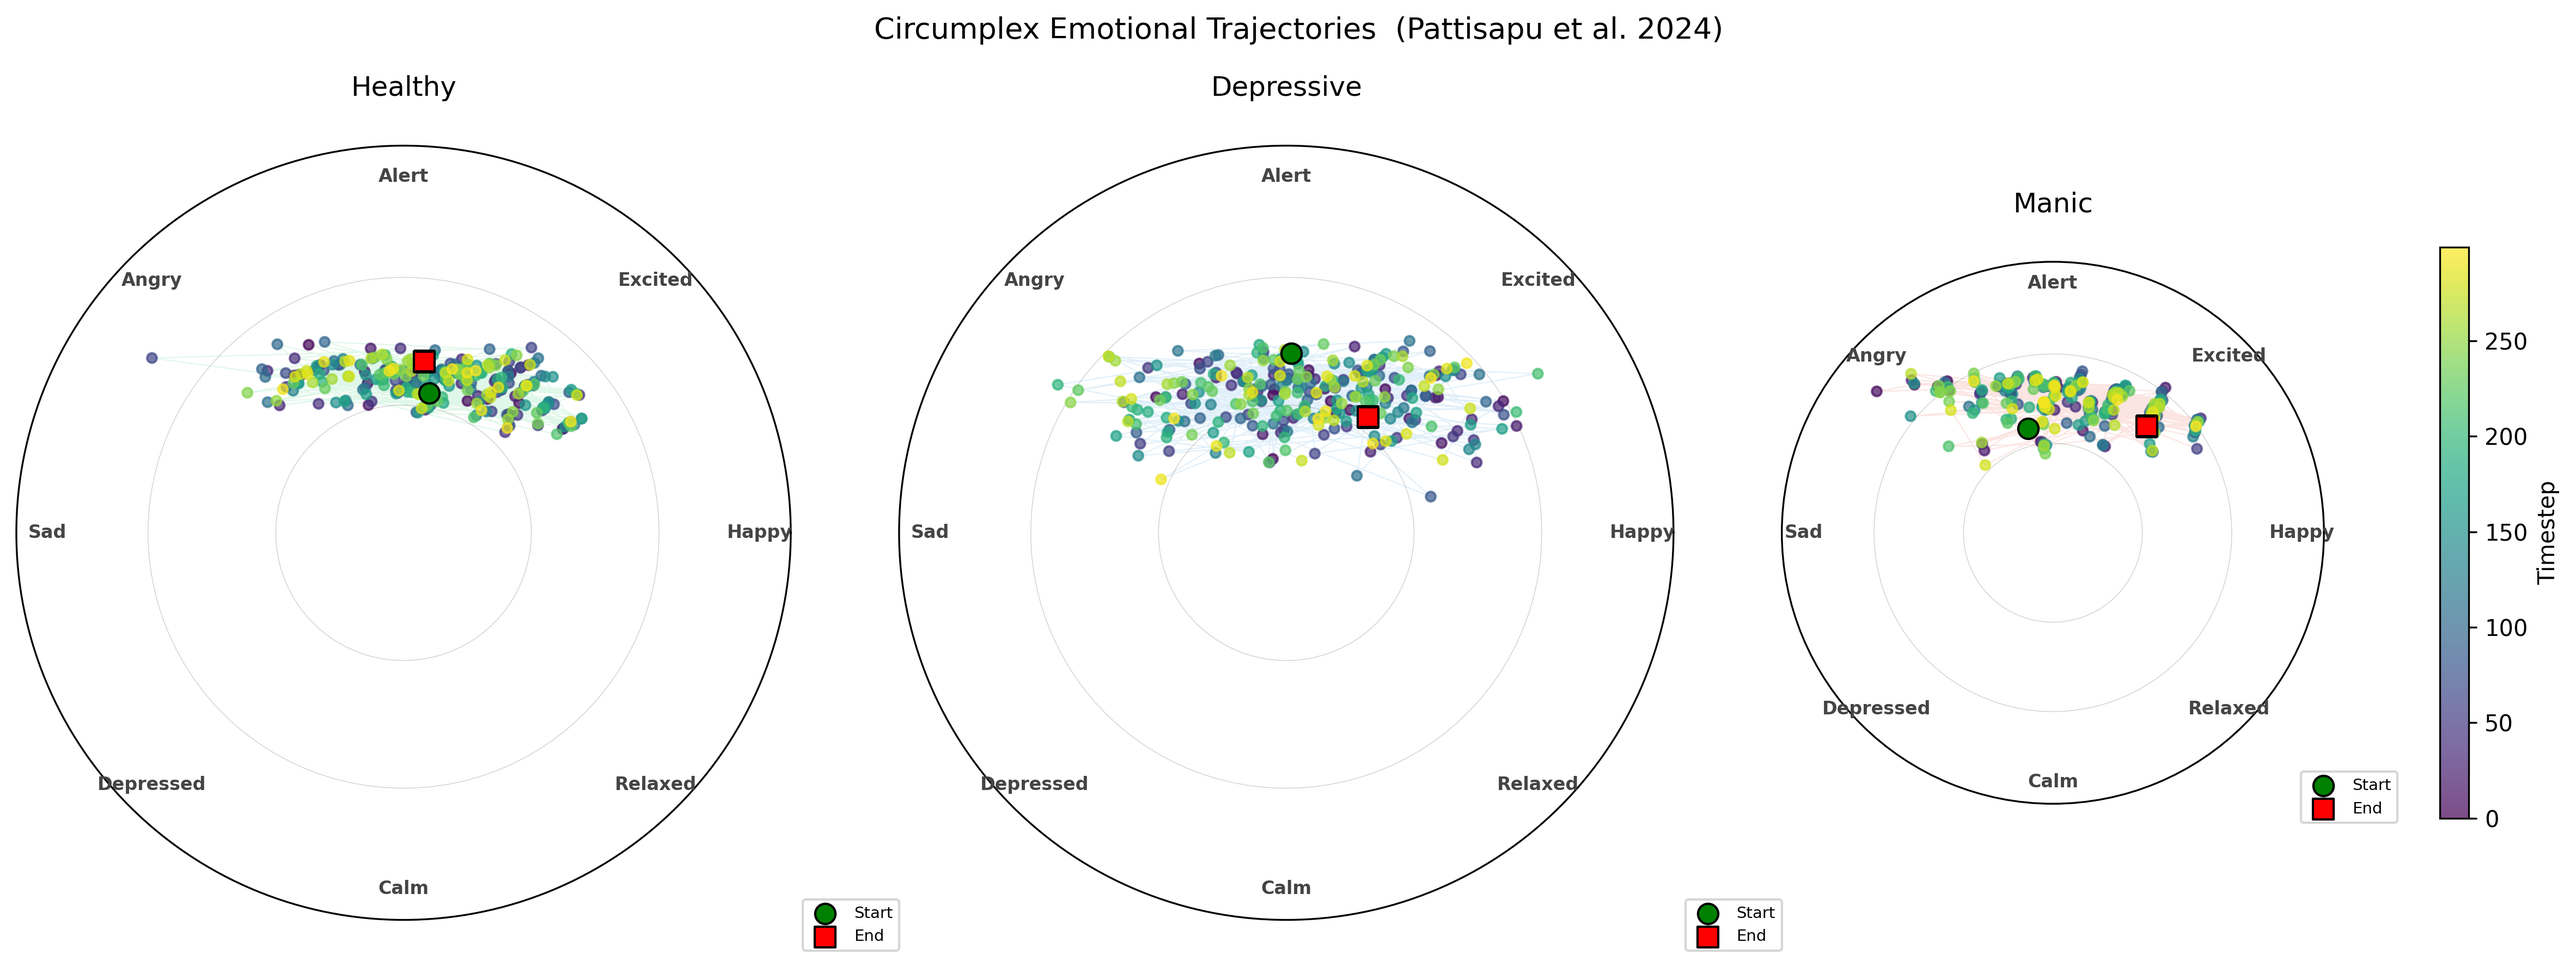
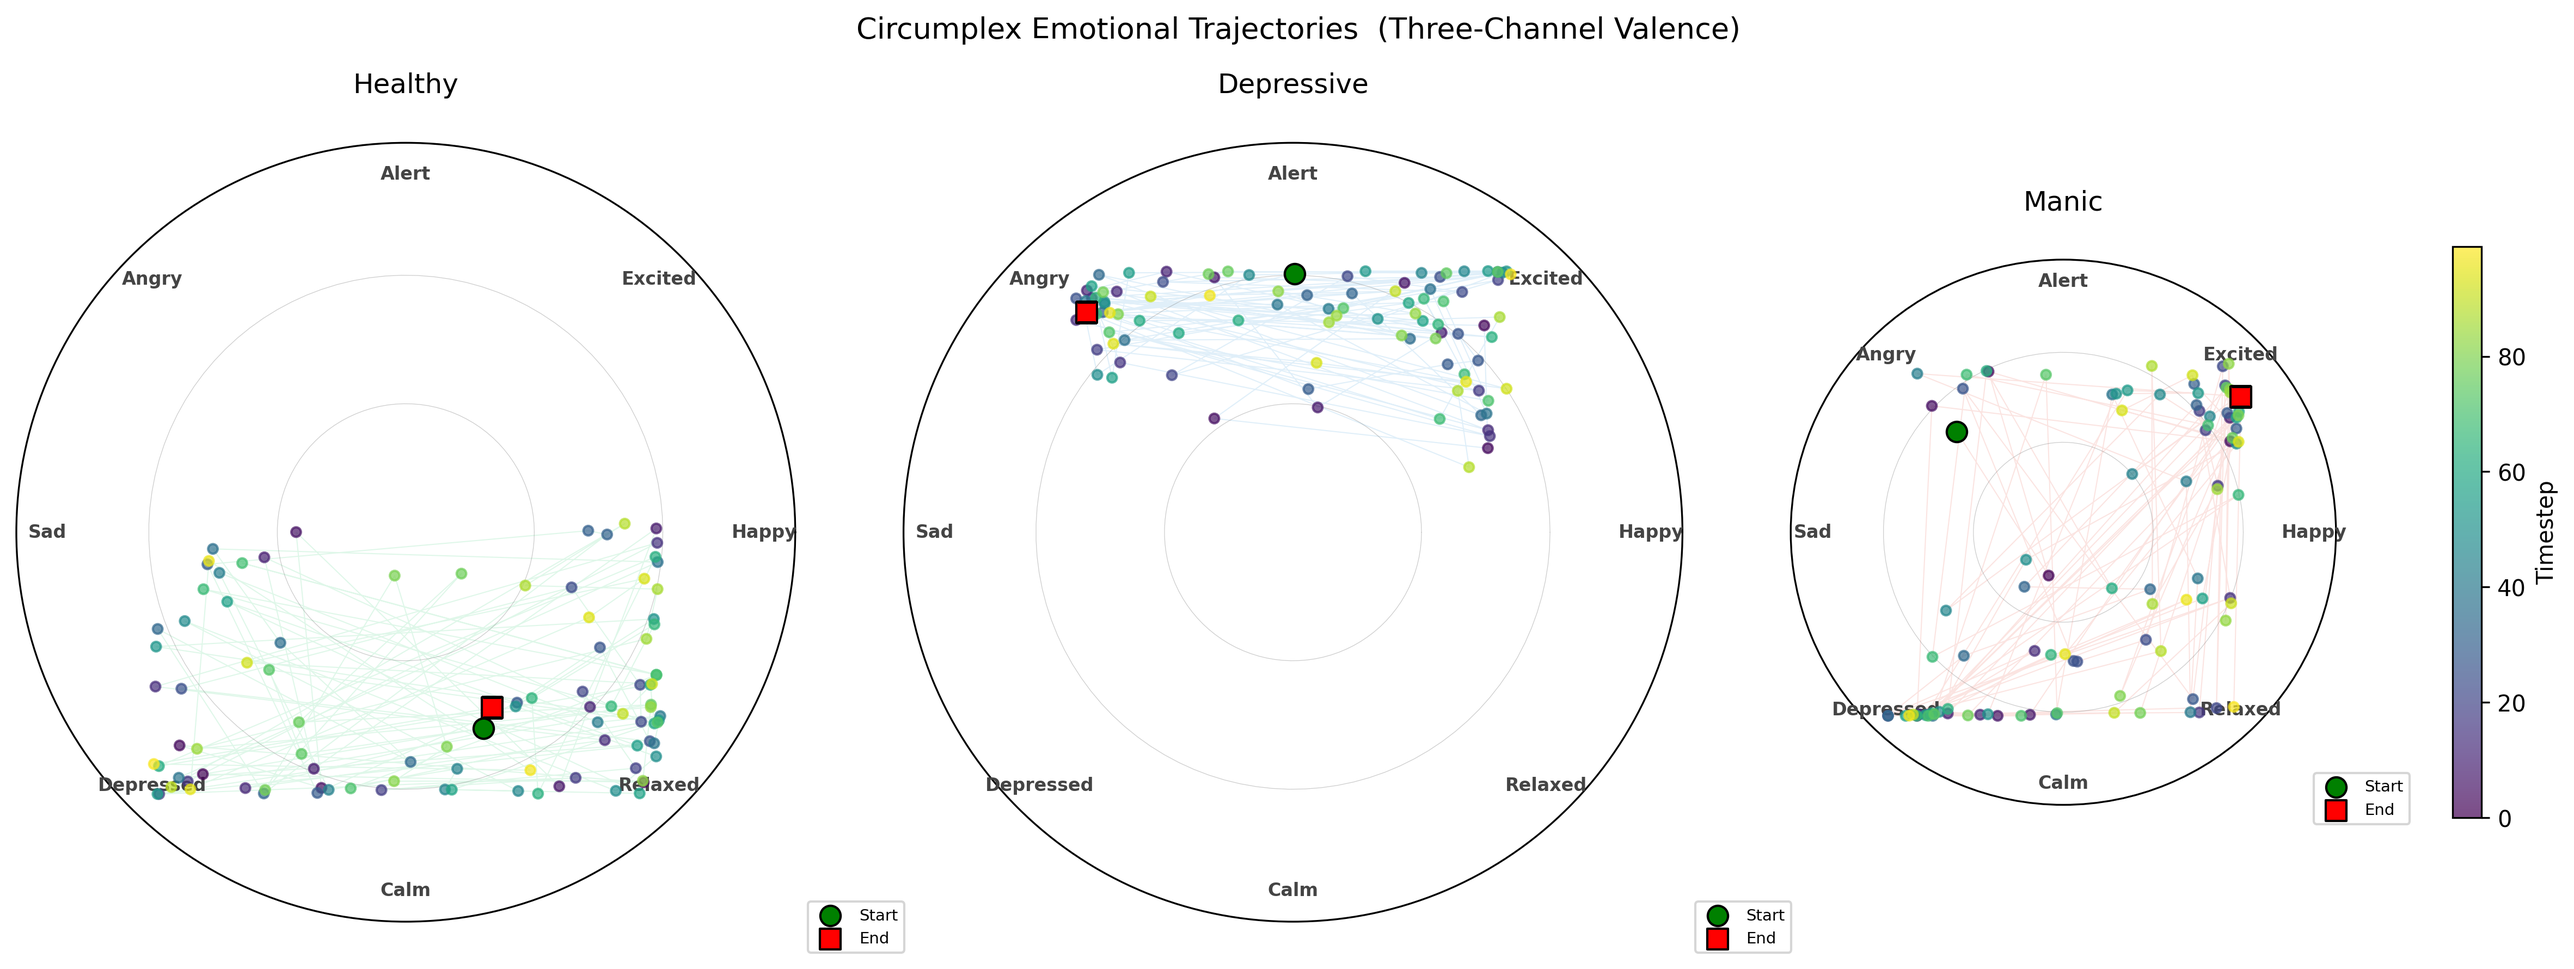
Three-channel valence architecture (Joffily + Pattisapu + Hesp) and policy-entropy arousal for circumplex

diff --git a/agent.py b/agent.py
@@ -5,9 +5,12 @@ Performs:
   1. Bayesian belief update  (predict → observe → posterior)
   2. EFE-based policy evaluation  (risk + ambiguity per modality)
   3. Softmax policy selection
-  4. Dual affect readout:
-     a) Pattisapu et al. (2024):  V = U − EU,  A = H[Q(s|o)]
-     b) Joffily & Coricelli (2013):  valence = −dF/dt
+  4. Three-channel affective readout:
+     a) v_model  = tanh(−ΔF/τ)     — backward (Joffily & Coricelli 2013)
+     b) v_reward = tanh((U−EU)/τ)   — present  (Pattisapu et al. 2024)
+     c) v_action = tanh(AC/τ)       — forward  (Hesp et al. 2021)
+     Composite: valence = tanh(v_model + v_reward + v_action)
+     Arousal: H[Q(s|o)] normalised to [−1, 1]
 """
 
 import numpy as np
@@ -15,12 +18,18 @@ from generative_model import ModelSpec, N_ACTIONS, EPS
 
 
 class Agent:
-    def __init__(self, model: ModelSpec, gamma: float = 16.0):
+    def __init__(self, model: ModelSpec, gamma: float = 16.0,
+                 tau_model: float = 0.5, tau_reward: float = 2.0,
+                 tau_action: float = 1.0):
         self.model = model
         self.gamma = gamma
+        self.tau_model = tau_model
+        self.tau_reward = tau_reward
+        self.tau_action = tau_action
         self.beliefs = model.D.copy()
         self.prev_action = None
         self._vfe_prev = None
+        self._pi_prev = None    # previous policy for affective charge
 
         # Pre-compute normalised preference distributions  σ(C_m)
         self._log_pref = []
@@ -33,6 +42,7 @@ class Agent:
         self.beliefs = self.model.D.copy()
         self.prev_action = None
         self._vfe_prev = None
+        self._pi_prev = None
 
     # ── Main loop ──────────────────────────────────────────
     def step(self, obs):
@@ -68,7 +78,7 @@ class Agent:
         q_post /= (q_post.sum() + EPS)
         self.beliefs = q_post
 
-        # ── VFE (for Joffily-Coricelli) ───────────────────
+        # ── VFE ──────────────────────────────────────────────
         accuracy = sum(
             np.dot(q_post, np.log(self.model.A[m][obs[m], :] + EPS))
             for m in range(len(obs))
@@ -79,30 +89,26 @@ class Agent:
 
         if self._vfe_prev is not None:
             dF = vfe - self._vfe_prev
-            valence_jc = float(np.tanh(-dF / 0.5))
         else:
             dF = 0.0
-            valence_jc = 0.0
         self._vfe_prev = vfe
 
-        # ── Pattisapu et al.:  V = U − EU,  A = H[q(s|o)] ─
-        # Utility of actual observation
-        U = sum(self._log_pref[m][obs[m]] for m in range(len(obs)))
+        # ── Three-channel valence ────────────────────────────
+        # Channel 1: v_model — backward (Joffily & Coricelli 2013)
+        v_model = float(np.tanh(-dF / self.tau_model))
 
-        # Expected utility under predicted observations
+        # Channel 2: v_reward — present (Pattisapu et al. 2024)
+        U = sum(self._log_pref[m][obs[m]] for m in range(len(obs)))
         EU = 0.0
         for m in range(len(self.model.A)):
-            q_o = self.model.A[m] @ q_pred          # predicted obs
+            q_o = self.model.A[m] @ q_pred
             q_o = np.maximum(q_o, EPS)
             q_o /= q_o.sum()
             EU += float(np.dot(q_o, self._log_pref[m]))
+        v_reward = float(np.tanh((U - EU) / self.tau_reward))
 
-        valence_p = float(U - EU)   # reward prediction error
-
-        # Arousal = posterior entropy
+        # Arousal = posterior state entropy (Pattisapu)
         arousal_p = float(-np.dot(q_post, np.log(q_post + EPS)))
-
-        # Normalised arousal  ∈ [0, 1]
         max_H = np.log(self.model.n_states)
         arousal_norm = arousal_p / max_H if max_H > 0 else 0.0
 
@@ -113,22 +119,48 @@ class Agent:
         log_pi -= log_pi.max()
         pi = np.exp(log_pi)
         pi /= (pi.sum() + EPS)
+
+        # Channel 3: v_action — forward (Hesp et al. 2021)
+        # Affective charge: policy improvement weighted by EFE
+        if self._pi_prev is not None:
+            AC = float(np.dot(self._pi_prev - pi, G))
+            v_action = float(np.tanh(AC / self.tau_action))
+        else:
+            AC = 0.0
+            v_action = 0.0
+
+        # Composite valence
+        valence = float(np.tanh(v_model + v_reward + v_action))
+
         action = int(np.random.choice(N_ACTIONS, p=pi))
         self.prev_action = action
+        self._pi_prev = pi.copy()
+
+        # Policy entropy (decision uncertainty)
+        pi_safe = np.maximum(pi, EPS)
+        policy_entropy = float(-np.dot(pi_safe, np.log(pi_safe)))
+        max_H_pi = np.log(N_ACTIONS)
+        policy_entropy_norm = policy_entropy / max_H_pi if max_H_pi > 0 else 0.0
 
         info = dict(
             beliefs=q_post.copy(),
             q_pred=q_pred.copy(),
             G=G.copy(),
             pi=pi.copy(),
-            # Joffily-Coricelli
+            # Three-channel valence (all tanh-bounded to [-1, 1])
+            v_model=v_model,
+            v_reward=v_reward,
+            v_action=v_action,
+            valence=valence,
+            # Legacy aliases
             vfe=float(vfe),
             dF=float(dF),
-            valence_jc=valence_jc,
-            # Pattisapu et al.
-            valence_p=valence_p,
+            valence_jc=v_model,
+            valence_p=float(U - EU),
+            # Arousal (two measures)
             arousal_p=arousal_p,
-            arousal_norm=arousal_norm,
+            arousal_norm=arousal_norm,           # state entropy
+            policy_entropy_norm=policy_entropy_norm,  # policy entropy
             utility=float(U),
             expected_utility=float(EU),
         )

diff --git a/plotting.py b/plotting.py
@@ -321,40 +321,34 @@ def plot_circumplex(results, save_path=None):
     """
     Figure 6: Circumplex trajectories per phenotype.
 
-    V = U − EU  (horizontal: positive = happy, negative = sad).
-    A = 2·H_norm − 1  (vertical: +1 = alert/uncertain, −1 = calm/certain).
-    Polar transform: θ = atan2(A, V),  r = √(V² + A²)  = intensity.
+    Uses the three-channel composite valence (tanh-bounded to [-1, 1]):
+      V = tanh(v_model + v_reward + v_action)
+    and centred policy entropy as arousal:
+      A = 2·H[q(π)]/log|Π| − 1  ∈ [-1, 1]
+
+    Policy entropy differentiates phenotypes far better than state entropy:
+    depressive ≈ 0.92 (near-random), healthy ≈ 0.21 (decisive), manic ≈ 0.45.
+    State entropy is uniformly high (~0.8) across all phenotypes.
     """
     names = ['healthy', 'depressive', 'manic']
     fig, axes = plt.subplots(1, 3, figsize=(16, 6),
                              subplot_kw=dict(projection='polar'))
 
-    # Compute global r_max for consistent scale across panels
-    global_rmax = 0.3
-    for name in names:
-        h = results[name]
-        V = h['valence_p'].copy()
-        A = 2.0 * h['arousal_norm'] - 1.0
-        v_scale = max(np.abs(V).max(), 0.01)
-        V_s = V / v_scale
-        r = np.sqrt(V_s**2 + A**2)
-        global_rmax = max(global_rmax, r.max() * 1.2)
+    # Both axes are already in [-1, 1]; max possible r = sqrt(2)
+    global_rmax = np.sqrt(2) * 1.05
 
     for idx, name in enumerate(names):
         ax = axes[idx]
         h = results[name]
-        V = h['valence_p'].copy()
-        A_raw = h['arousal_norm'].copy()
 
-        # Centre arousal:  0 → −1 (calm/certain),  1 → +1 (alert/uncertain)
-        A = 2.0 * A_raw - 1.0
+        # Composite valence (already tanh-bounded [-1, 1])
+        V = h['valence']
+        # Centred arousal from policy entropy:
+        # 0 → −1 (decisive/certain), 1 → +1 (indecisive/uncertain)
+        A = 2.0 * h['policy_entropy_norm'] - 1.0
 
-        # Scale valence to roughly ±1 for visual balance
-        v_scale = max(np.abs(V).max(), 0.01)
-        V_s = V / v_scale
-
-        theta = np.arctan2(A, V_s)
-        r = np.sqrt(V_s**2 + A**2)
+        theta = np.arctan2(A, V)
+        r = np.sqrt(V**2 + A**2)
 
         sc = ax.scatter(theta, r, c=np.arange(len(V)), cmap='viridis',
                         s=18, alpha=0.7, zorder=5)
@@ -366,16 +360,13 @@ def plot_circumplex(results, save_path=None):
         ax.scatter(theta[-1], r[-1], marker='s', s=80, c='red',
                    edgecolors='k', zorder=10, label='End')
 
-        # Consistent scale across panels
         ax.set_rlim(0, global_rmax)
 
-        # Emotion labels around the perimeter
         for deg, label in _CIRC_LABELS:
             rad = np.deg2rad(deg)
             ax.text(rad, global_rmax * 0.92, label, ha='center', va='center',
                     fontsize=8, fontweight='bold', color='#444')
 
-        # Light reference circles
         for frac in [0.33, 0.66]:
             circle_r = global_rmax * frac
             th = np.linspace(0, 2 * np.pi, 100)
@@ -389,7 +380,7 @@ def plot_circumplex(results, save_path=None):
                   bbox_to_anchor=(1.15, -0.05))
 
     plt.colorbar(sc, ax=axes[-1], label='Timestep', shrink=0.65, pad=0.15)
-    fig.suptitle('Circumplex Emotional Trajectories  (Pattisapu et al. 2024)',
+    fig.suptitle('Circumplex Emotional Trajectories  (Three-Channel Valence)',
                  fontsize=13, y=1.0)
     plt.tight_layout()
     if save_path:

diff --git a/experiments.py b/experiments.py
@@ -68,10 +68,16 @@ def run_trial(K=8, M=5, pi_pos=5.0, omega_e=5.0, gamma=16.0, c_scale=1.0,
         hist['valence_jc'][t] = info['valence_jc']
         hist['G'][t]       = info['G']
         hist['pi'][t]      = info['pi']
-        # Pattisapu et al.
+        # Three-channel valence
+        hist['v_model'][t]   = info['v_model']
+        hist['v_reward'][t]  = info['v_reward']
+        hist['v_action'][t]  = info['v_action']
+        hist['valence'][t]   = info['valence']
+        # Pattisapu et al. (legacy)
         hist['valence_p'][t] = info['valence_p']
         hist['arousal_p'][t] = info['arousal_p']
         hist['arousal_norm'][t] = info['arousal_norm']
+        hist['policy_entropy_norm'][t] = info['policy_entropy_norm']
 
     # Second derivative → anticipation
     hist['d2F'] = np.diff(hist['dF'], prepend=hist['dF'][0])
@@ -95,10 +101,16 @@ def _make_history(T, K):
         pi             = np.zeros((T, N_ACTIONS)),
         d2F            = np.zeros(T),
         anticipation   = np.zeros(T),
-        # Pattisapu et al.
+        # Three-channel valence
+        v_model        = np.zeros(T),
+        v_reward       = np.zeros(T),
+        v_action       = np.zeros(T),
+        valence        = np.zeros(T),
+        # Pattisapu et al. (legacy)
         valence_p      = np.zeros(T),
         arousal_p      = np.zeros(T),
         arousal_norm   = np.zeros(T),
+        policy_entropy_norm = np.zeros(T),
     )
 
 
